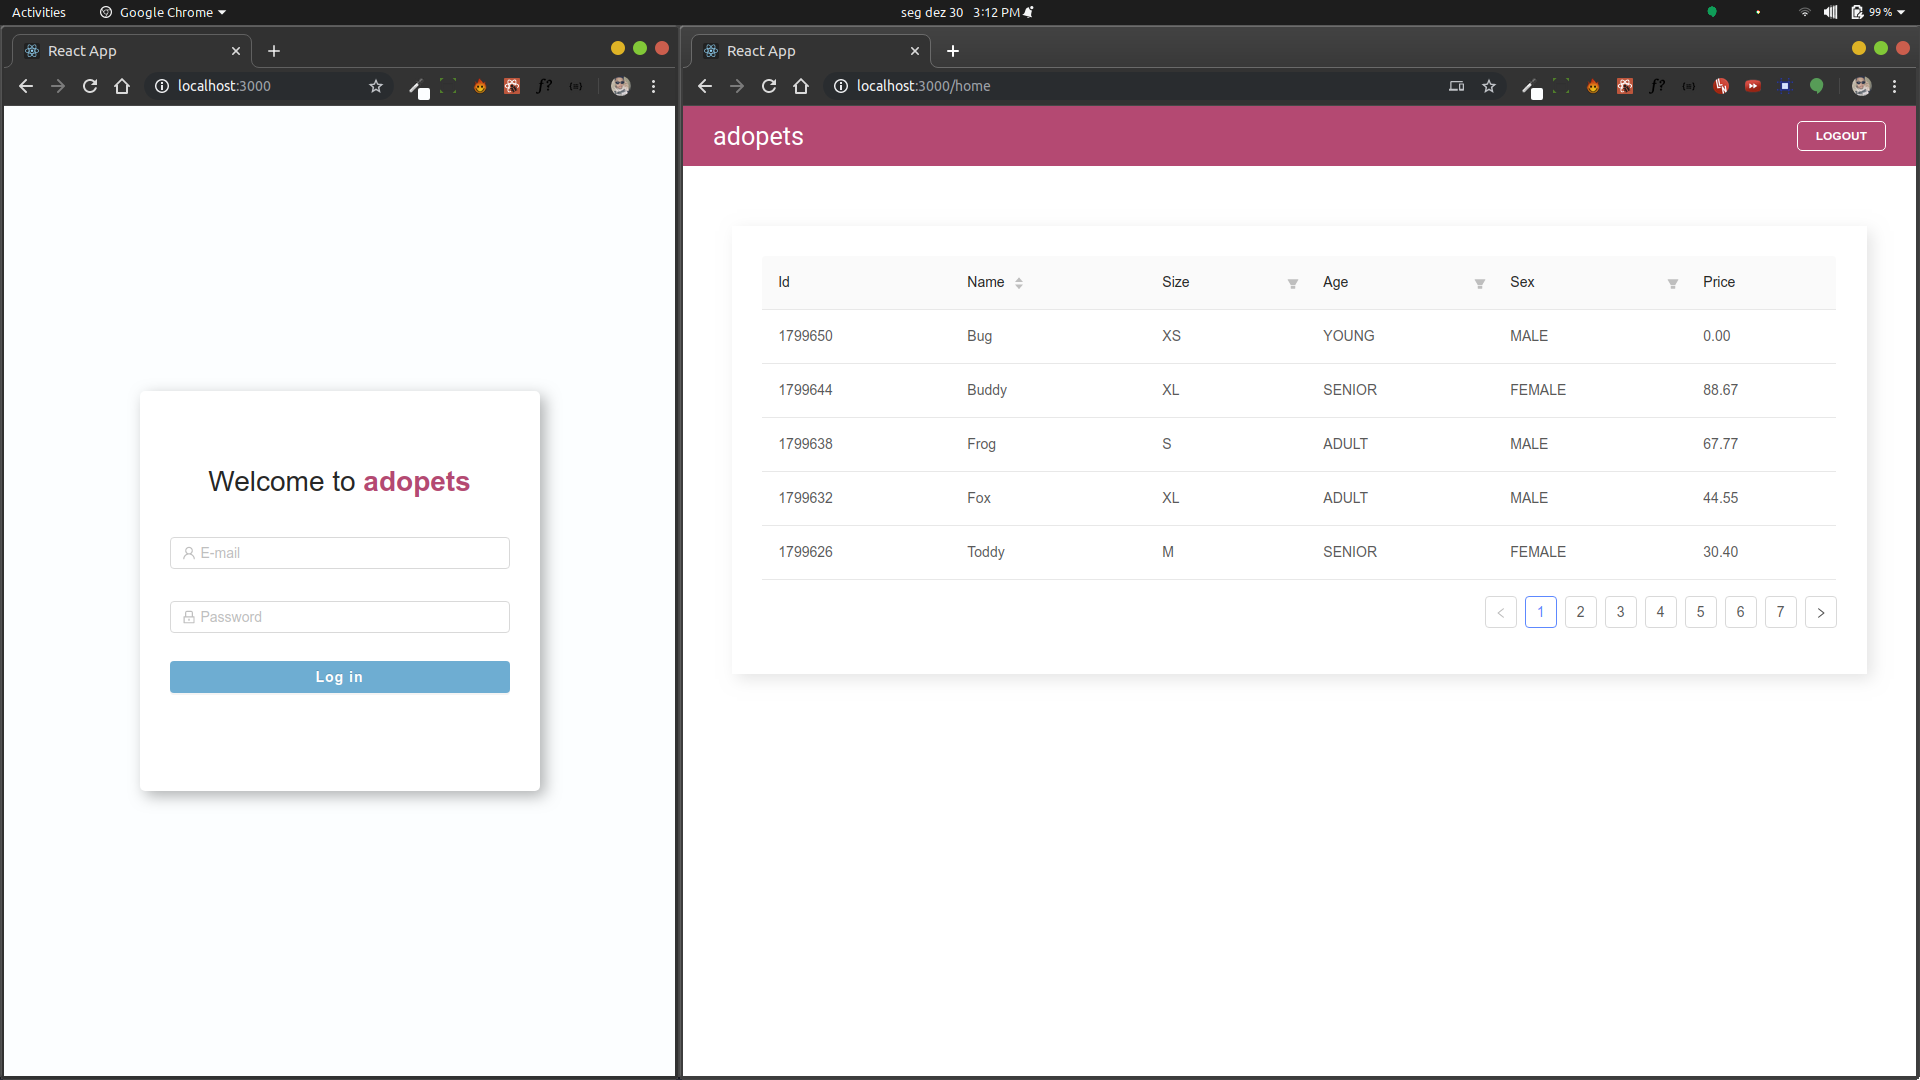
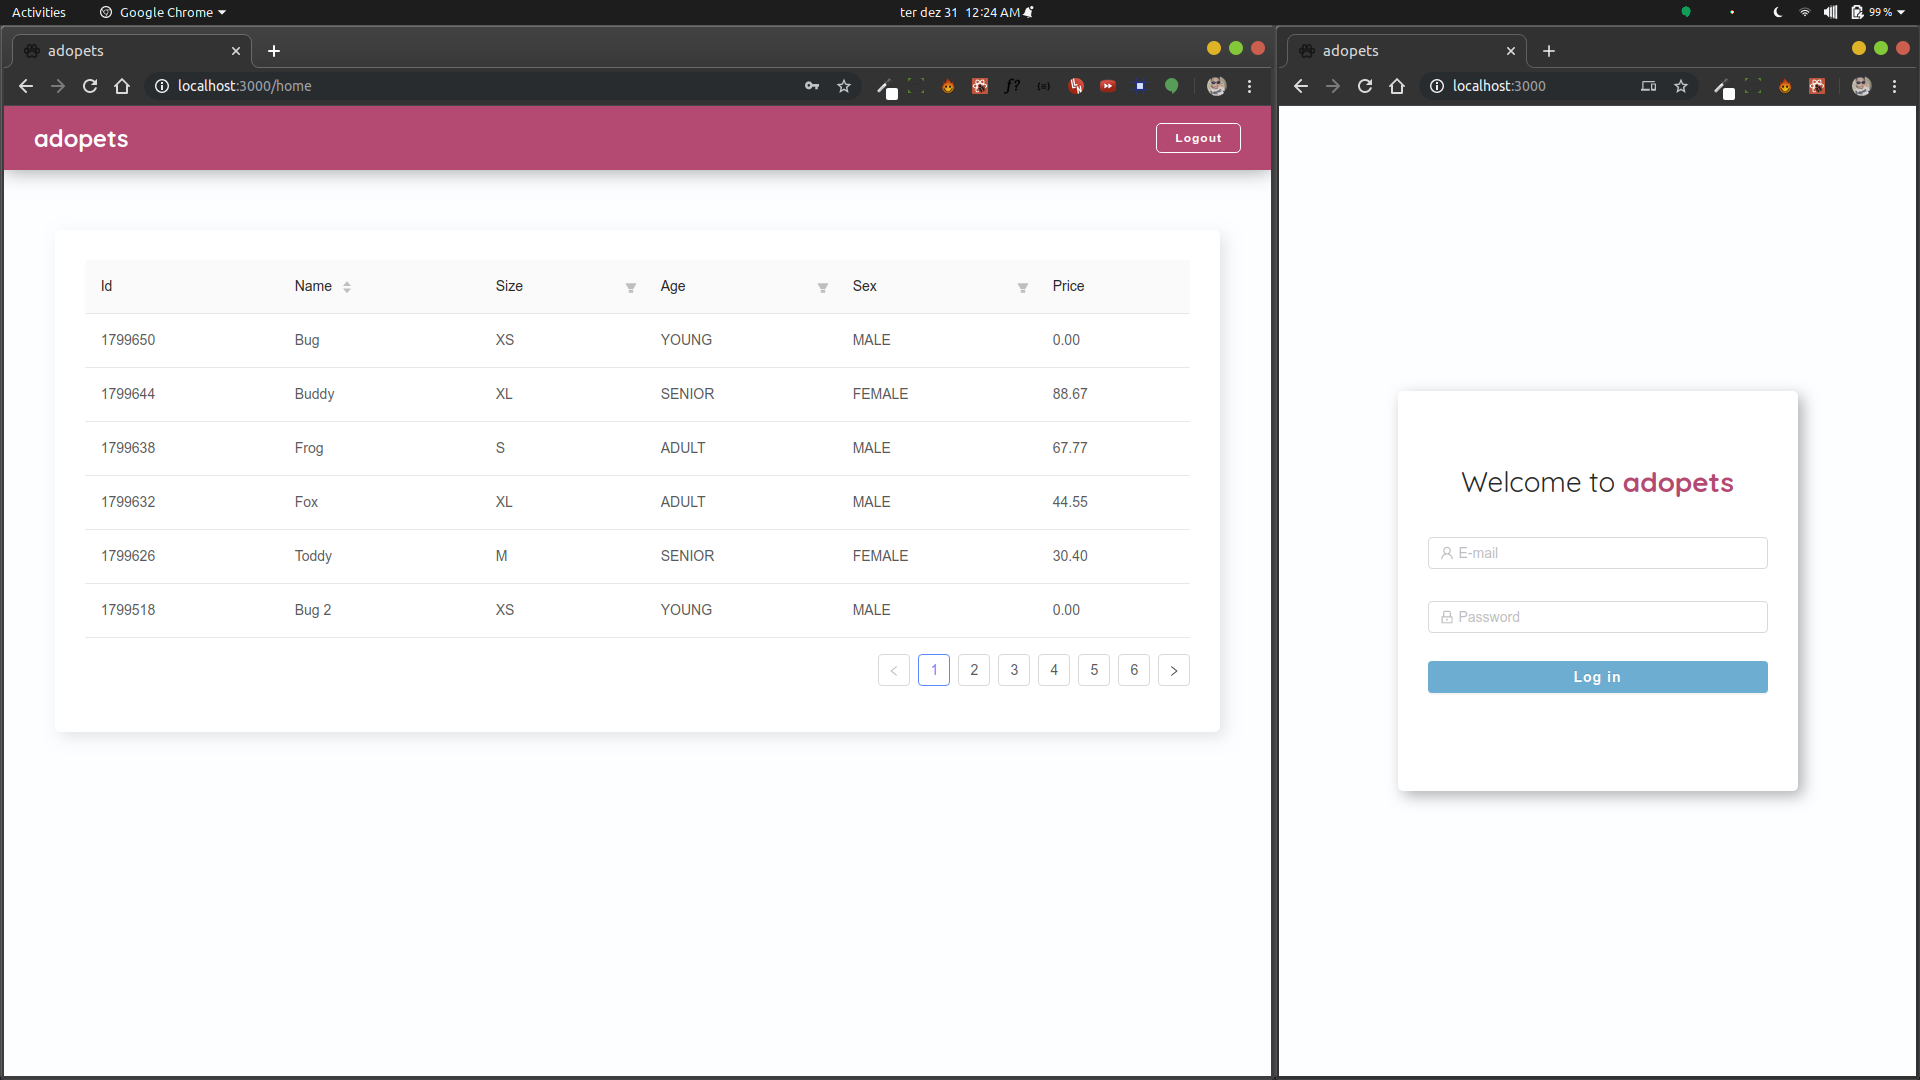
updated folder pages, routes.js and history.js

diff --git a/src/pages/Login/index.tsx b/src/pages/Login/index.tsx
@@ -1,28 +1,22 @@
 import React, { FC, useState, useEffect } from "react";
 import api from "../../services/api";
-import history from "../../history";
+import history from "../history";
 
 import { Form, Icon, Input, Button, notification } from "antd";
 import { Container } from "./styles";
 
 const Login: FC = (props: any) => {
   const [token, setToken] = useState<string>("");
-  const KEY: string = "505763d6-4202-4b05-9efc-93b366939bcf";
 
-  const handleSubmit = async (e: any) => {
-    e.preventDefault();
-    props.form.validateFields(
-      async (err: [], values: { email: string; password: string }) => {
-        if (!err) {
-          try {
-            await registerSession(values);
-            history.push("home");
-          } catch (err) {
-            showNotification();
-          }
-        }
+  const requestSessionToken = async () => {
+    const {
+      data: {
+        data: { access_key }
       }
-    );
+    } = await api.post("auth/session-request", {
+      system_api_key: localStorage.getItem("key")
+    });
+    setToken(access_key);
   };
 
   const registerSession = async (values: {
@@ -50,22 +44,20 @@ const Login: FC = (props: any) => {
     localStorage.setItem("token", access_key);
   };
 
-  const requestSessionToken = async () => {
-    const {
-      data: {
-        data: { access_key }
+  const handleSubmit = async (e: any) => {
+    e.preventDefault();
+    props.form.validateFields(
+      async (err: [], values: { email: string; password: string }) => {
+        if (!err) {
+          try {
+            await registerSession(values);
+            history.push("home");
+          } catch (err) {
+            showNotification();
+          }
+        }
       }
-    } = await api.post("auth/session-request", {
-      system_api_key: KEY
-    });
-    setToken(access_key);
-  };
-
-  const showNotification = () => {
-    notification["error"]({
-      message: "ERROR!!!",
-      description: "Please check your email or password are correct."
-    });
+    );
   };
 
   const tokenExists = () => {
@@ -76,8 +68,16 @@ const Login: FC = (props: any) => {
 
   useEffect(() => {
     tokenExists();
+    localStorage.setItem("key", "505763d6-4202-4b05-9efc-93b366939bcf");
     requestSessionToken();
   }, []);
+
+  const showNotification = () => {
+    notification["error"]({
+      message: "ERROR!!!",
+      description: "Please check your email or password are correct."
+    });
+  };
 
   const { getFieldDecorator } = props.form;
 
@@ -85,7 +85,7 @@ const Login: FC = (props: any) => {
     <Container>
       <section>
         <h1>
-          Welcome to <span>adopets</span>
+          Welcome to <span>adopets </span>
         </h1>
         <Form
           data-testid={"form-submit"}

diff --git a/src/pages/Home/styles.js b/src/pages/Home/styles.js
@@ -1,40 +1,43 @@
 import styled from "styled-components";
 
 export const Container = styled.div`
-  @import url("https://fonts.googleapis.com/css?family=Roboto&display=swap");
+  @import url("https://fonts.googleapis.com/css?family=Quicksand:400,700&display=swap");
 
   width: 100%;
+  height: 100vh;
   display: flex;
   flex-direction: column;
+  background: #fbfeff;
 
   nav {
     width: 100%;
-    height: 60px;
+    height: 64px;
     background: #cf3e71;
     padding: 0 30px;
     margin-bottom: 60px;
     display: flex;
     justify-content: space-between;
     align-items: center;
+    box-shadow: 0 0 20px 0 rgba(0, 0, 0, 0.4);
 
     h1 {
-      font-size: 1.8em;
-      font-family: "Roboto", sans-serif;
+      font-size: 1.7em;
+      font-family: "Quicksand", sans-serif;
       text-transform: lowercase;
       color: #fff;
-      font-weight: 400;
+      font-weight: 700;
       margin: 0;
     }
 
     button {
       font-size: 12px;
+      letter-spacing: 1px;
       margin: 0;
       padding: 5px 18px;
       border: 1px solid #fff;
       color: #fff;
       border-radius: 5px;
       background: transparent;
-      text-transform: uppercase;
       font-weight: bold;
       cursor: pointer;
       transition: 0.3s ease-out;
@@ -47,10 +50,39 @@ export const Container = styled.div`
     }
   }
 
+  @keyframes seta {
+    from {
+      right: 30px;
+    }
+    to {
+      right: 20px;
+    }
+  }
+
   section {
     width: 92%;
     padding: 30px;
+    background: #fff;
     margin: 0 auto;
     box-shadow: 5px 5px 15px 0 rgba(0, 0, 0, 0.1);
+    border-radius: 5px;
+  }
+
+  @media (max-width: 600px) {
+    section {
+      overflow-x: auto;
+      -webkit-overflow-scrolling: touch;
+      -ms-overflow-style: -ms-autohiding-scrollbar;
+      position: relative;
+
+      &::after {
+        content: "➙";
+        position: absolute;
+        top: 5px;
+        right: 30px;
+        color: rgba(0, 0, 0, 0.3);
+        animation: seta 0.5s ease-in 0s infinite alternate;
+      }
+    }
   }
 `;

diff --git a/public/index.html b/public/index.html
@@ -1,20 +1,20 @@
 <!DOCTYPE html>
 <html lang="en">
   <head>
-    <meta charset="utf-8" />
-    <link rel="icon" href="%PUBLIC_URL%/favicon.ico" />
-    <meta name="viewport" content="width=device-width, initial-scale=1" />
-    <meta name="theme-color" content="#000000" />
+    <meta charset="utf-8"/>
+    <link rel="icon" href="%PUBLIC_URL%/favicon.ico"/>
+    <meta name="viewport" content="width=device-width, initial-scale=1"/>
+    <meta name="theme-color" content="#000000"/>
     <meta
       name="description"
       content="Web site created using create-react-app"
-    />
-    <link rel="apple-touch-icon" href="%PUBLIC_URL%/logo192.png" />
+/>
+    <link rel="apple-touch-icon" href="%PUBLIC_URL%/logo192.png"/>
     <!--
       manifest.json provides metadata used when your web app is installed on a
       user's mobile device or desktop. See https://developers.google.com/web/fundamentals/web-app-manifest/
     -->
-    <link rel="manifest" href="%PUBLIC_URL%/manifest.json" />
+    <link rel="manifest" href="%PUBLIC_URL%/manifest.json"/>
     <!--
       Notice the use of %PUBLIC_URL% in the tags above.
       It will be replaced with the URL of the `public` folder during the build.
@@ -24,7 +24,7 @@
       work correctly both with client-side routing and a non-root public URL.
       Learn how to configure a non-root public URL by running `npm run build`.
     -->
-    <title>React App</title>
+    <title>adopets</title>
   </head>
   <body>
     <noscript>You need to enable JavaScript to run this app.</noscript>

diff --git a/src/pages/Home/index.tsx b/src/pages/Home/index.tsx
@@ -10,7 +10,7 @@ interface Pet {
   sex_key: string;
   size_key: string;
   age_key: string;
-  price: number;
+  price: string;
 }
 
 const Home: FC = () => {
@@ -19,9 +19,9 @@ const Home: FC = () => {
   const [page, setPage] = useState<any>();
 
   const fetchPets = async (options?: Object, filters?: Object) => {
-    setIsLoading(true);
-    searchPets(options, filters);
-    setIsLoading(false);
+    await setIsLoading(true);
+    await searchPets(options, filters);
+    await setIsLoading(false);
   };
 
   const searchPets = async (options?: Object, filters?: Object) => {
@@ -81,7 +81,7 @@ const Home: FC = () => {
       }
     );
 
-    setPets(
+    await setPets(
       result.map(
         (pet: any) =>
           ({
@@ -95,7 +95,7 @@ const Home: FC = () => {
       )
     );
 
-    setPage({
+    await setPage({
       total: count,
       pageSize: limit,
       current: page
@@ -104,7 +104,7 @@ const Home: FC = () => {
 
   useEffect(() => {
     fetchPets();
-  });
+  }, []);
 
   const handleTableChange = (pagination: any, filters: any, sorter: any) => {
     const searchFilters: any = {};
@@ -124,6 +124,7 @@ const Home: FC = () => {
             ? []
             : [sorter.order === "descend" ? "-" + sorter.field : sorter.field]
       },
+
       searchFilters
     );
   };
@@ -194,7 +195,6 @@ const Home: FC = () => {
           pagination={page}
           loading={isLoading}
           onChange={handleTableChange}
-          data-testid={"table-pets"}
         />
       </section>
       <br />

diff --git a/src/pages/NotFound/styles.js b/src/pages/NotFound/styles.js
@@ -13,6 +13,7 @@ export const Container = styled.div`
     font-size: 15em;
     font-weight: bolder;
     color: #fff;
+    letter-spacing: 10px;
     margin: 0;
   }
 
@@ -26,12 +27,25 @@ export const Container = styled.div`
     font-size: 18px;
     color: #fff;
 
-    a {
+    button {
       text-decoration: none;
       color: #30b1d3;
+      background: transparent;
       font-weight: bold;
       letter-spacing: 2px;
-      font-size: 20px;
+      font-size: 16px;
+      padding: 5px 10px;
+      margin-left: 5px;
+      border: 1px solid transparent;
+      border-radius: 5px;
+      transition: 0.2s ease-out;
+      cursor: pointer;
+
+      &:hover {
+        border: 1px solid #30b1d3;
+        color: #fff;
+        background: #30b1d3;
+      }
     }
   }
 `;

diff --git a/src/pages/NotFound/index.tsx b/src/pages/NotFound/index.tsx
@@ -3,12 +3,18 @@ import React, { FC } from "react";
 import { Container } from "./styles";
 
 const NotFound: FC = () => {
+  const goBack = (e: any) => {
+    e.preventDefault();
+    window.history.back();
+  };
+
   return (
     <Container>
       <h1>4&#123;&#125;4</h1>
       <h2>page not found</h2>
       <p>
-        Something went wrong go back to <a href="/">LOGIN</a>
+        Something went wrong click here to{" "}
+        <button onClick={goBack}>BACK</button>
       </p>
     </Container>
   );

diff --git a/src/pages/Login/styles.js b/src/pages/Login/styles.js
@@ -1,6 +1,8 @@
 import styled from "styled-components";
 
 export const Container = styled.div`
+  @import url("https://fonts.googleapis.com/css?family=Quicksand:400,700&display=swap");
+
   width: 100vw;
   height: 100vh;
   display: flex;
@@ -20,6 +22,7 @@ export const Container = styled.div`
     h1 {
       font-size: 2em;
       margin-bottom: 30px;
+      font-family: "Quicksand", sans-serif;
 
       span {
         color: #cf3e71;

diff --git a/src/routes.tsx b/src/routes.tsx
@@ -1,11 +1,11 @@
 import React, { FC } from "react";
 import { Router, Switch, Route } from "react-router";
-import history from "./history";
+import history from "./pages/history";
 
 import Login from "./pages/Login";
 import Home from "./pages/Home";
 import NotFound from "./pages/NotFound";
-import PrivateRoute from "./pages/PrivateRoute";
+import PrivateRoute from "./pages/PrivatePages";
 
 const Routes: FC = () => {
   return (

diff --git a/README.md b/README.md
@@ -1,6 +1,6 @@
 <h1 align="center">
 <br>
-  <img src="./public/screen-layout.png" alt="YOUR_PROJECT_NAME" width="1280">
+  <img src="./public/screen-layout.png" alt="YOUR_PROJECT_NAME" width="100%">
 <br>
 <br>
 TEST FRONTEND - ADOPETS
